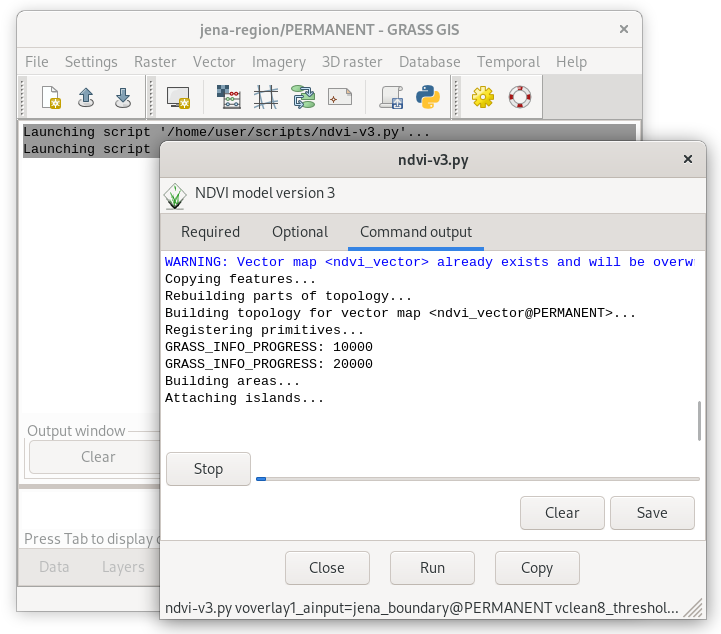
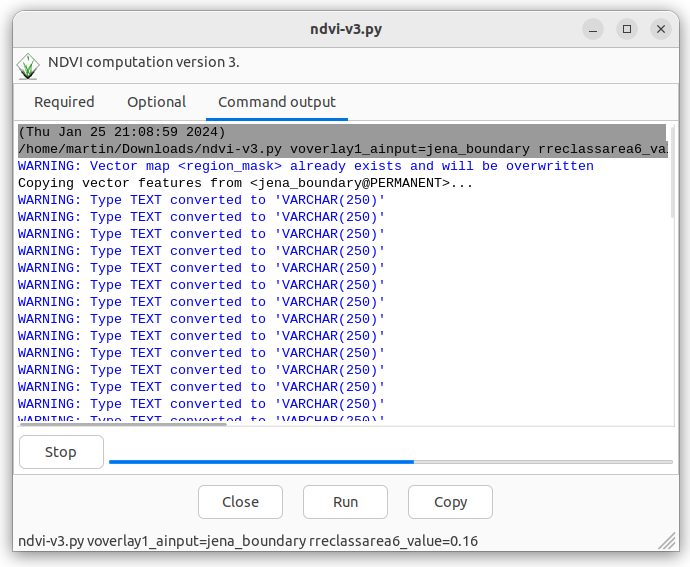
unit 11 updated

diff --git a/_static/scripts/ndvi-v3.py b/_static/scripts/ndvi-v3.py
@@ -113,20 +113,23 @@ def main(options, flags):
     print ('-' * 80)
     print ('NDVI class statistics')
     print ('-' * 80)
-    ret = Module('v.report', map='ndvi_vector', option='area', stdout_=PIPE)
-    for line in ret.outputs.stdout.splitlines()[1:]: # skip first line (cat|label|area)
-        # parse line (eg. 1||2712850)
-        data = line.split('|')
+    ret = Module('r.stats', input='ndvi_class_filled', flags='ian', stdout_=PIPE)
+    for line in ret.outputs.stdout.splitlines():
+        # parse line (eg. 1 2737300.000000)
+        data = line.split(' ')
         cat = data[0]
         area = float(data[-1])
         print('NDVI class {0}: {1:.1f} ha'.format(cat, area/1e4)) 
 
     print ('-' * 80)
-    # v.to.rast: use -c flag for updating statistics if exists
-    Module('v.rast.stats', flags='c', map='ndvi_vector', raster='ndvi',
+    # we need integer map
+    Module('r.mapcalc', expression='ndvi_class_filled_i = int(ndvi_class_filled)')
+    Module('r.to.vect', flags='v', input='ndvi_class_filled_i', output='ndvi_class_filled', type='area')
+
+    Module('v.rast.stats', flags='c', map='ndvi_class_filled', raster='ndvi',
            column_prefix='ndvi', method=['minimum','maximum','average'])
     # v.db.select: don't print column names (-c)
-    ret = Module('v.db.select', flags='c', map='ndvi_vector', separator='comma', stdout_=PIPE)
+    ret = Module('v.db.select', flags='c', map='ndvi_class_filled', separator='comma', stdout_=PIPE)
     for line in ret.outputs.stdout.splitlines():
         # parse line (eg. 1,,-0.433962264150943,0.740350877192983,0.051388909449992)
         cat,label,min,max,mean = line.split(',')

diff --git a/units/11.rst b/units/11.rst
@@ -20,8 +20,6 @@ by |grass-script-load| :sup:`Launch user-defined script`.
            
    Script output is printed into :item:`Console` tab.
 
-.. todo:: GRASS doesn't show UI dialog...
-          
 Open exported Python script by your favorite IDE or if your do not
 have any just use GRASS-integrated Python editor |grass-python| :sub:`Open
 a simple Python code editor`.
@@ -76,48 +74,64 @@ Statistics
 ----------
 
 Let's add additional NDVI classes statistics computed by
-:grasscmd:`v.report`.
+:grasscmd:`r.stats`:
+
+.. code-block:: bash
+
+   r.stats -ian input=ndvi_class_filled
+
+In Python:
 
 .. literalinclude:: ../_static/scripts/ndvi-v3.py
    :language: python
    :lines:  113-122
 
-Output of :grasscmd:`v.report` module need to be parsed. Unfortunately
+Output of :grasscmd:`r.stats` module need to be parsed. Unfortunately
 the command does not offer a shell script output similarly to
-:grasscmd:`r.univar`. Python fuctions like ``splitlines()`` and
-``split()`` can be used.
+:grasscmd:`r.univar`. This may be solved by Python functions like
+``splitlines()`` and ``split()``.
 
-Let's compute also zonal statistics for each NDVI class by
-:grasscmd:`v.rast.stats`. Zonal attributes can be printed by
-:grasscmd:`v.db.select` tool.
+Additionally let's compute also zonal statistics (min, max, mean) for each NDVI
+class. This could be computed by :grasscmd:`r.stats.zonal` for each
+object-based statistic (min, max, mean). Alternatively raster classes may be converted to vector by :grasscmd:`r.to.vect` and statistics may be computed by :grasscmd:`v.rast.stats` as shown below.
 
-.. todo:: Can be simplified since this statistics is already reported
-   by :grasscmd:`v.report`
-          
+.. note:: Unfortunately :grasscmd:`r.grow.distance`
+          is producing floating-point (DCELL) raster data by default. So first,
+          let's convert :map:`ndvi_class_filled` from floating-point (DCELL) to
+          integer. 
+
+.. code-block:: bash
+
+   r.mapcalc expression="ndvi_class_filled_i = int(ndvi_class_filled)"
+   r.to.vect -v input=ndvi_class_filled_i output=ndvi_class_filled type=area
+   v.rast.stats -c map=ndvi_class_filled raster=ndvi column_prefix=ndvi method=minimum,maximum,average
+
+In Python:
+
 .. literalinclude:: ../_static/scripts/ndvi-v3.py
    :language: python
-   :lines:  124-134
+   :lines:  124-137
                 
 Example of script output below.
 
 ::
 
-    --------------------------------------------------------------------------------
-    NDVI value statistics
-    --------------------------------------------------------------------------------
-    NDVI min value: -0.6094
-    NDVI max value: 0.9997
-    NDVI mean value: 0.6485
-    --------------------------------------------------------------------------------
-    NDVI class statistics
-    --------------------------------------------------------------------------------
-    NDVI class 1: 271.5 ha
-    NDVI class 2: 2438.1 ha
-    NDVI class 3: 7561.3 ha
-    --------------------------------------------------------------------------------
-    NDVI class 1: -0.4340 (min) 0.7404 (max) 0.0514 (mean)
-    NDVI class 2: -0.1738 (min) 0.8547 (max) 0.3262 (mean)
-    NDVI class 3: -0.6094 (min) 0.9997 (max) 0.7740 (mean)
+   --------------------------------------------------------------------------------
+   NDVI value statistics
+   --------------------------------------------------------------------------------
+   NDVI min value: -0.6094
+   NDVI max value: 0.9997
+   NDVI mean value: 0.6485
+   --------------------------------------------------------------------------------
+   NDVI class statistics
+   --------------------------------------------------------------------------------
+   NDVI class 1: 273.7 ha
+   NDVI class 2: 2437.7 ha
+   NDVI class 3: 7559.7 ha
+   --------------------------------------------------------------------------------
+   NDVI class 1: -0.4340 (min) 0.7133 (max) 0.0514 (mean)
+   NDVI class 2: -0.4537 (min) 0.9989 (max) 0.3262 (mean)
+   NDVI class 3: -0.6094 (min) 0.9997 (max) 0.7740 (mean)
 
 Sample script to download: `ndvi-v3.py <../_static/scripts/ndvi-v3.py>`__
 
@@ -131,3 +145,8 @@ Sample script to download: `ndvi-v3.py <../_static/scripts/ndvi-v3.py>`__
           stats(options)
       
           return 0
+
+.. task:: Solve issue with statistics which do not follow class
+          definition: eg. minimum value of class 3 (-0.6) is out of
+          range (0.6 to 1.0). This is caused by removing small area
+          and filling holes by adjacent class.
